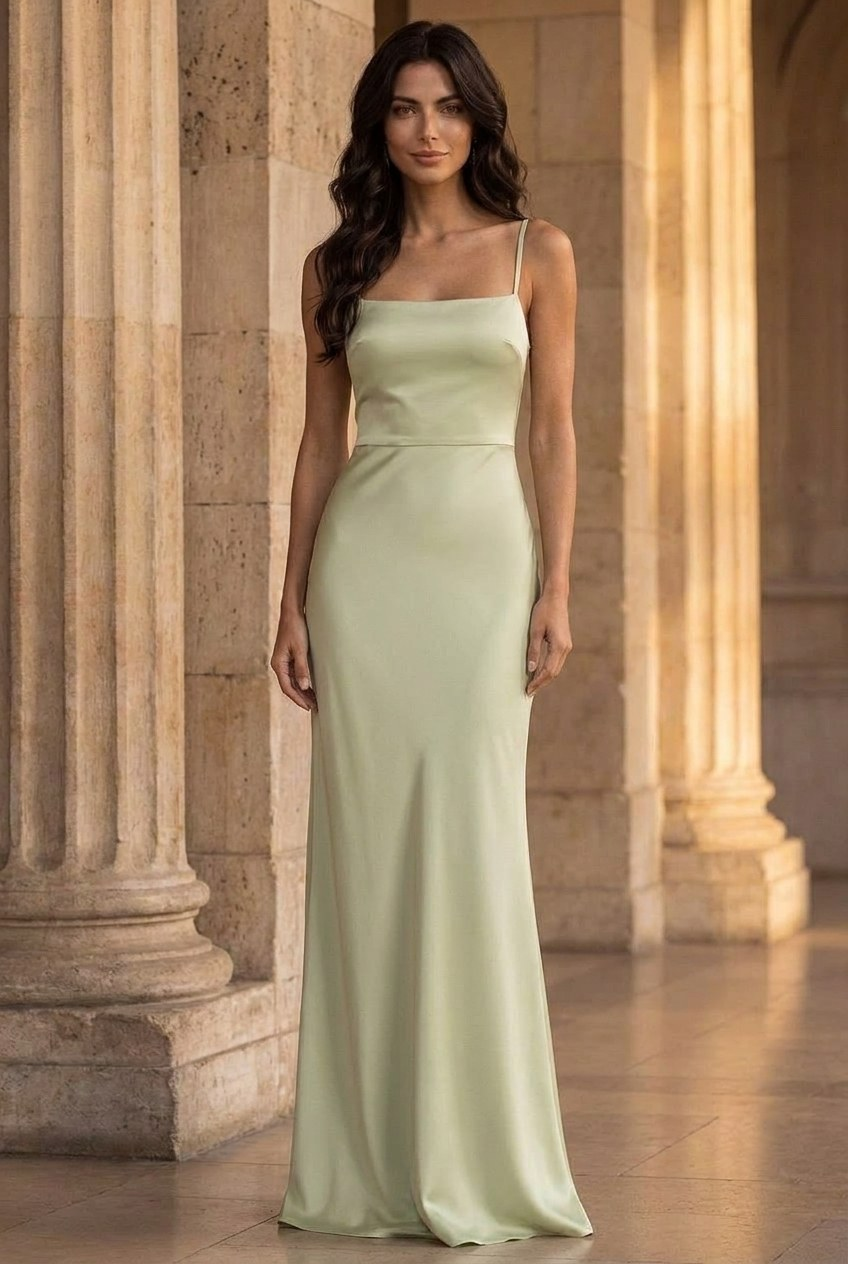
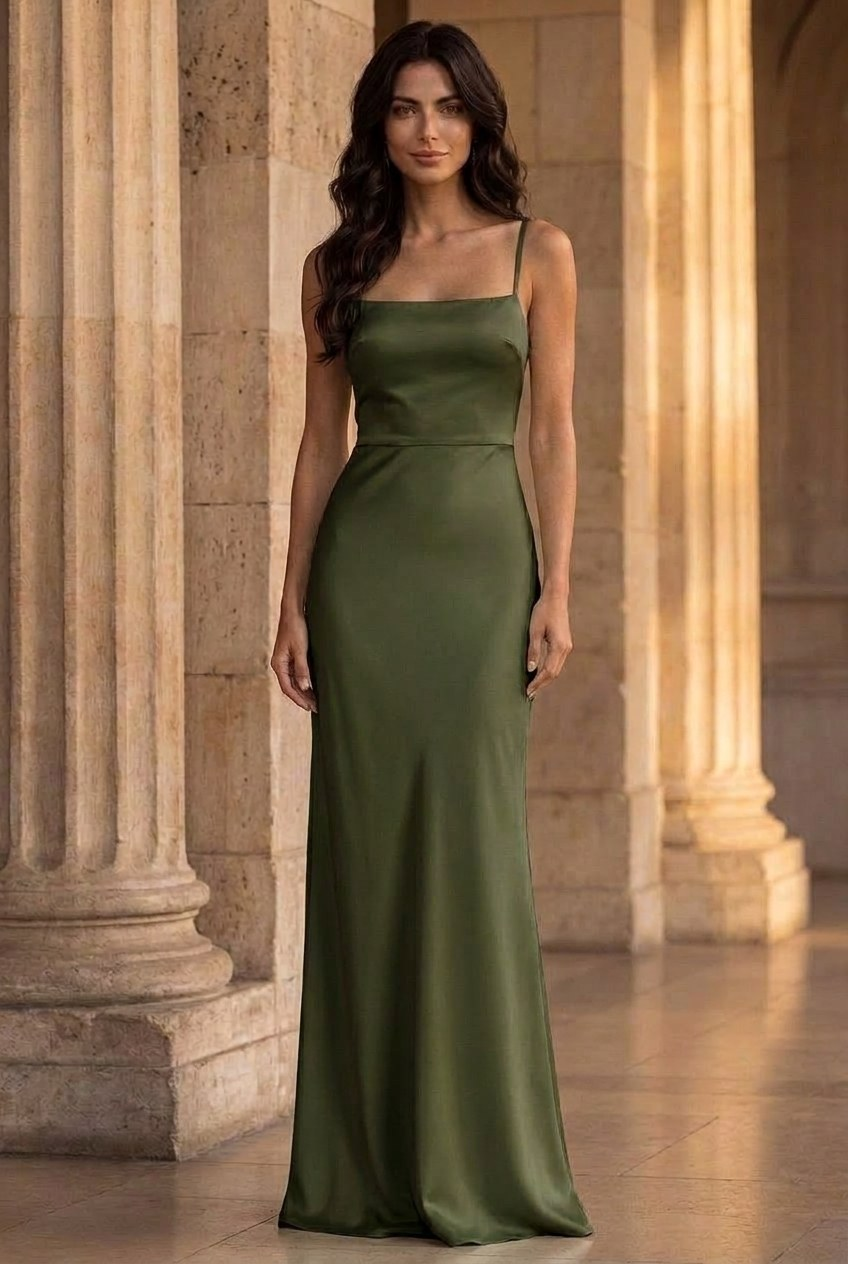
Dress code: verde oliva oscuro en lugar de pistacho

Changed region(s): [[0.3066, 0.1851, 0.7052, 0.9873], [0.6132, 0.1543, 0.6439, 0.1851]]

diff --git a/index.html b/index.html
@@ -619,7 +619,7 @@ footer{background:#2A211E!important}
         <button role="tab" aria-selected="true" data-g="w">Ellas</button>
         <button role="tab" aria-selected="false" data-g="m">Ellos</button>
       </div>
-      <p class="dsub dstatic">No olvides que nuestra paleta de colores abraza la belleza de Querétaro y de La Bartola: el chocolate, el vino, la ciruela, el gris achocolatado de la piedra y un verde pistacho pálido que recuerda a los cactus al caer la tarde.</p>
+      <p class="dsub dstatic">No olvides que nuestra paleta de colores abraza la belleza de Querétaro y de La Bartola: el chocolate, el vino, la ciruela, el gris achocolatado de la piedra y un verde oliva oscuro que recuerda a los cactus al caer la tarde.</p>
       <div class="dsw" id="dsw"></div>
       <p class="hint" id="dhint">Pasa el cursor o toca un color</p>
       <p class="dsub dlast" id="dsub">Vestidos largos de noche, en telas fluidas y colores sólidos de nuestra paleta.</p>
@@ -781,7 +781,7 @@ document.querySelectorAll('#htabs button').forEach(b=>b.addEventListener('click'
 // dress code: hover/click cambia las 3 fotos
 const DR={
  w:{sub:'Las mujeres pueden elegir vestidos largos elegantes, en colores sólidos (sin estampados) de nuestra paleta.',hint:'Pasa el cursor o toca un color',
-    sw:[['chocolate','Chocolate','#44231A'],['vino','Vino','#531C30'],['ciruela','Ciruela','#58313D'],['ceniza','Gris achocolatado','#857369'],['pistacho','Verde pistacho','#C9D3B2']]},
+    sw:[['chocolate','Chocolate','#44231A'],['vino','Vino','#531C30'],['ciruela','Ciruela','#58313D'],['ceniza','Gris achocolatado','#857369'],['pistacho','Verde oliva','#3F4A2E']]},
  m:{sub:'Los hombres irán de smoking: camisa blanca y corbata negra.',hint:'Pasa el cursor o toca el color',sw:[['smoking','Negro','#0E0B0B']]}
 };
 const LK={
@@ -789,7 +789,7 @@ const LK={
  chocolate:['Chocolate',['media/v-chocolate-1.jpg','media/v-chocolate-2.jpg','media/v-chocolate-3.jpg']],
  ciruela:['Ciruela',['media/v-ciruela-1.jpg','media/v-ciruela-2.jpg','media/v-ciruela-3.jpg']],
  ceniza:['Gris achocolatado',['media/v-gris-1.jpg','media/v-gris-2.jpg','media/v-gris-3.jpg']],
- pistacho:['Verde pistacho',['media/v-pistacho-1.jpg','media/v-pistacho-2.jpg','media/v-pistacho-3.jpg']],
+ pistacho:['Verde oliva',['media/v-pistacho-1.jpg','media/v-pistacho-2.jpg','media/v-pistacho-3.jpg']],
  smoking:['Smoking',['media/m-1.jpg','media/m-2.jpg','media/m-3.jpg']]
 };
 const CAP={smoking:['El smoking','Solapa de satén','Camisa blanca y corbata negra']};
